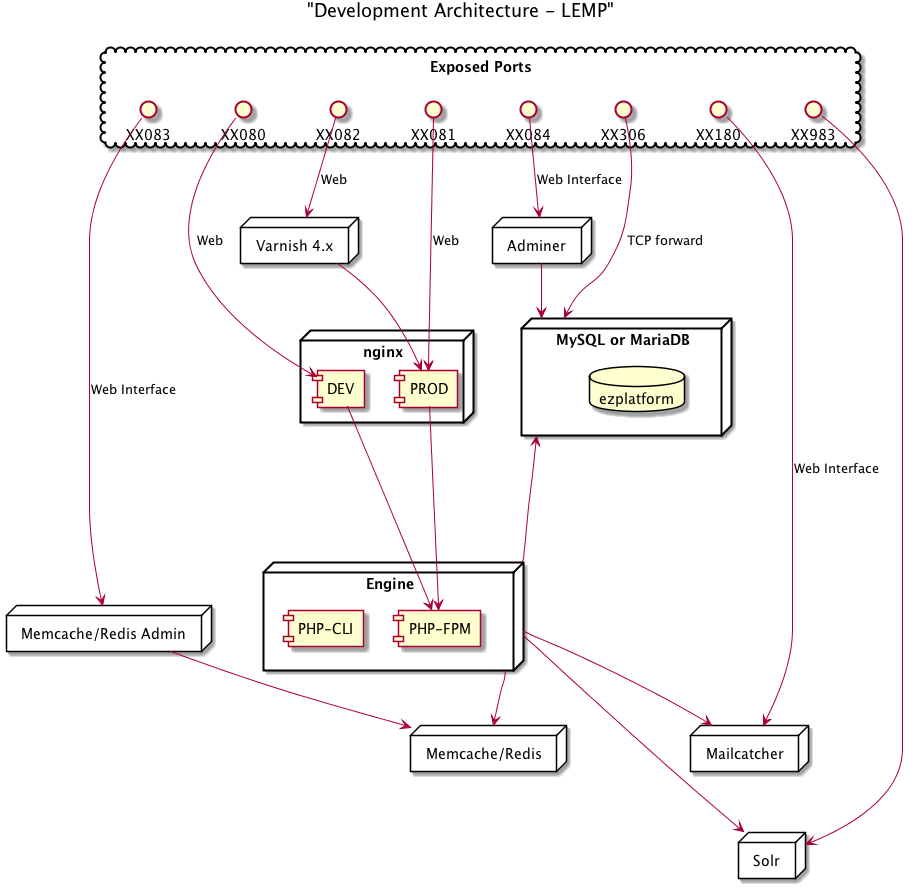
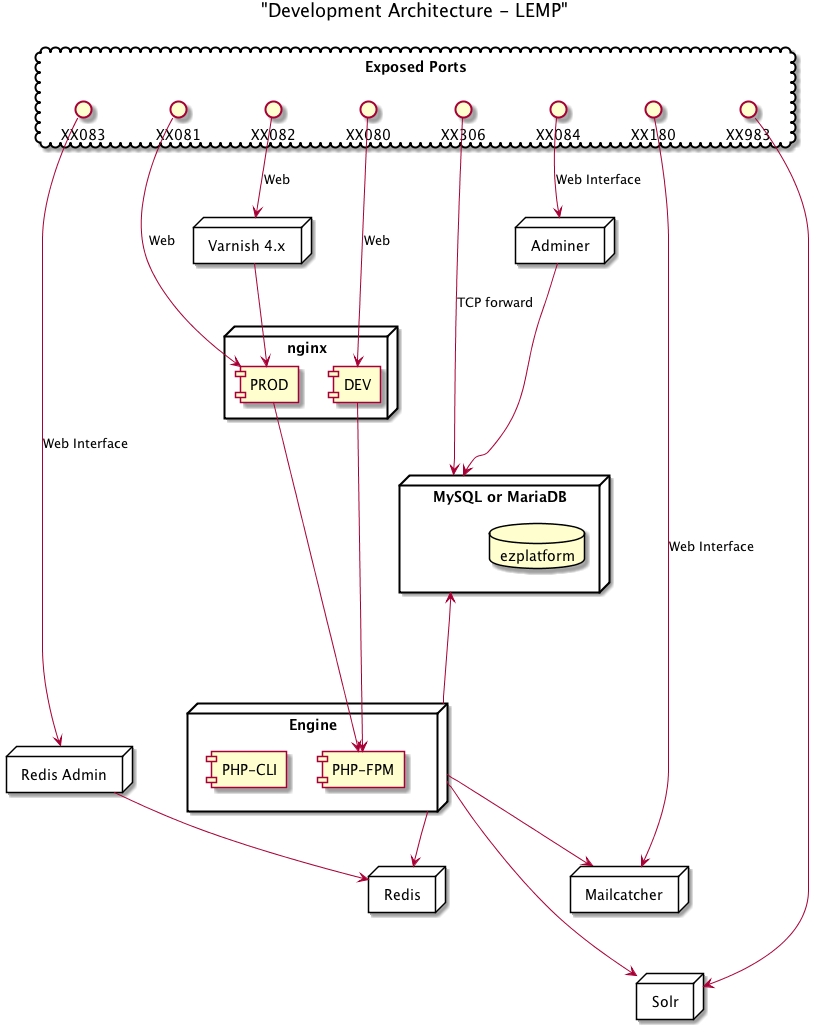
Move from Memcache to Redis and 2.x by default

diff --git a/src/Command/Platformsh/Setup.php b/src/Command/Platformsh/Setup.php
@@ -58,7 +58,7 @@ class Setup extends DockerCommand
 
         // Install Tiny help for Platformsh (will be included soon in ezplatform)
         $this->taskExecutor->runComposerCommand(
-            'require platformsh/config-reader --no-interaction --no-scripts --optimize-autoloader --no-update'
+            'require platformsh/config-reader --no-interaction --no-scripts --optimize-autoloader'
         );
         // Dump the project
         $this->taskExecutor->dumpData();
@@ -66,17 +66,11 @@ class Setup extends DockerCommand
         // put the files in places
         $fs->mirror("{$this->getPayloadDir()}/platformsh/.platform", "{$this->projectPath}/.platform");
 
-        if ($this->dockerClient->isEzPlatform2x()) {
-            $fs->copy(
-                "{$this->getPayloadDir()}/platformsh/.platform.app-2x.yaml",
-                "{$this->projectPath}/.platform.app.yaml"
-            );
-        } else {
-            $fs->copy(
-                "{$this->getPayloadDir()}/platformsh/.platform.app-1x.yaml",
-                "{$this->projectPath}/.platform.app.yaml"
-            );
-        }
+        $fs->copy(
+            "{$this->getPayloadDir()}/platformsh/.platform.app-".($this->dockerClient->isEzPlatform2x() ? '2x' : '1x').
+            '.yaml',
+            "{$this->projectPath}/.platform.app.yaml"
+        );
 
         $provisioningName   = $this->projectConfiguration->get('provisioning.folder_name');
         $provisioningFolder = "{$this->projectPath}/{$provisioningName}";
@@ -86,12 +80,13 @@ class Setup extends DockerCommand
             true
         );
         $fs->copy(
-            "{$this->getPayloadDir()}/platformsh/clearmemcache.php",
-            "{$provisioningFolder}/platformsh/clearmemcache.php",
+            "{$this->getPayloadDir()}/platformsh/clearrediscache.php",
+            "{$provisioningFolder}/platformsh/clearrediscache.php",
             true
         );
         $fs->copy(
-            "{$this->getPayloadDir()}/platformsh/platformsh.php",
+            "{$this->getPayloadDir()}/platformsh/platformsh-".($this->dockerClient->isEzPlatform2x() ? '2x' : '1x').
+            '.php',
             "{$this->projectPath}/ezplatform/app/config/env/platformsh.php",
             true
         );

diff --git a/payload/platformsh/platformsh-1x.php b/payload/platformsh/platformsh-1x.php
@@ -1,0 +1,39 @@
+<?php
+include(__DIR__."/../../../vendor/autoload.php");
+
+use Platformsh\ConfigReader\Config as PlatformshConfig;
+use Symfony\Component\Config\FileLocator;
+use Symfony\Component\DependencyInjection\Loader;
+
+$config = new PlatformshConfig();
+
+if (!isset($config->project)) {
+    return;
+}
+
+if (isset($config->relationships['database'][0])) {
+    $database = $config->relationships['database'][0];
+    $container->setParameter('database_driver', 'pdo_'.$database['scheme']);
+    $container->setParameter('database_host', $database['host']);
+    $container->setParameter('database_port', $database['port']);
+    $container->setParameter('database_name', $database['path']);
+    $container->setParameter('database_user', $database['username']);
+    $container->setParameter('database_password', $database['password']);
+    $container->setParameter('database_path', '');
+}
+
+if (isset($config->relationships['cache'][0])) {
+    $pool  = 'singleredis';
+    $cache = $config->relationships['cache'][0];
+    $container->setParameter('cache_pool', $pool);
+    $container->setParameter('cache_host', $cache['host']);
+    $container->setParameter('cache_redis_port', $cache['port']);
+    $loader = new Loader\YamlFileLoader($container, new FileLocator(__DIR__.'/../cache_pool'));
+    $loader->load($pool.'.yml');
+}
+
+// Disable PHPStormPass
+$container->setParameter('ezdesign.phpstorm.enabled', false);
+
+
+// Sessions are in redis via PHP Config

diff --git a/src/Command/Docker/Initialize.php b/src/Command/Docker/Initialize.php
@@ -58,7 +58,7 @@ class Initialize extends Command
         $this->setName('docker:initialize')->setDescription('Initialize the project and all the services.');
         $this->setAliases(['docker:init', 'initialize', 'init']);
         $this->addArgument('repository', InputArgument::OPTIONAL, 'eZ Platform Repository', 'ezsystems/ezplatform');
-        $this->addArgument('version', InputArgument::OPTIONAL, 'eZ Platform Version', '1.12.*');
+        $this->addArgument('version', InputArgument::OPTIONAL, 'eZ Platform Version', '2.*');
         $this->addArgument('initialdata', InputArgument::OPTIONAL, 'eZ Platform Initial', 'clean');
     }
 
@@ -106,14 +106,14 @@ class Initialize extends Command
         // PHP.ini ADAPTATION
         $phpINIPath = "{$provisioningFolder}/dev/engine/php.ini";
         $conf       = <<<END
-; memcache configuration in dev 
-session.save_handler = memcached
-session.save_path = "memcache:11211?persistent=1&weight=1&timeout=1&retry_interval=15"
+; redis configuration in dev 
+session.save_handler = redis
+session.save_path = "tcp://redis:6379"
 END;
         $iniContent = file_get_contents($phpINIPath);
         $iniContent = str_replace(
-            '##MEMCACHE_CONFIG##',
-            $compose->hasService('memcache') ? $conf : '',
+            '##REDIS_CONFIG##',
+            $compose->hasService('redis') ? $conf : '',
             $iniContent
         );
 

diff --git a/src/Core/DockerCompose.php b/src/Core/DockerCompose.php
@@ -115,12 +115,13 @@ class DockerCompose
                         $vars = [
                             'CUSTOM_CACHE_POOL',
                             'CACHE_HOST',
-                            'CACHE_MEMCACHED_PORT',
+                            'CACHE_REDIS_PORT',
                             'CACHE_POOL',
                             'CACHE_DSN',
                             'SEARCH_ENGINE',
                             'SOLR_DSN',
                             'HTTPCACHE_PURGE_SERVER',
+                            'SYMFONY_TMP_DIR',
                         ];
 
                         return !preg_match(
@@ -151,9 +152,9 @@ class DockerCompose
                                 return false;
                             }
                         }
-                        if (!$this->hasService('memcache')) {
+                        if (!$this->hasService('redis')) {
                             if (preg_match(
-                                '/(CUSTOM_CACHE_POOL|CACHE_HOST|CACHE_POOL|CACHE_DSN|CACHE_MEMCACHED_PORT)/',
+                                '/(CUSTOM_CACHE_POOL|CACHE_HOST|CACHE_POOL|CACHE_DSN|CACHE_REDIS_PORT)/',
                                 $value
                             )) {
                                 return false;

diff --git a/tests/Tests/Unit/DockerComposeTest.php b/tests/Tests/Unit/DockerComposeTest.php
@@ -57,7 +57,7 @@ class DockerComposeTest extends TestCase
             }
             foreach ($service['environment'] as $env) {
                 $this->assertNotRegExp(
-                    "/(CUSTOM_CACHE_POOL|CACHE_HOST|CACHE_MEMCACHED_PORT|SEARCH_ENGINE|SOLR_DSN)/",
+                    "/(CUSTOM_CACHE_POOL|CACHE_HOST|CACHE_REDIS_PORT|SEARCH_ENGINE|SOLR_DSN)/",
                     $env
                 );
             }
@@ -68,16 +68,16 @@ class DockerComposeTest extends TestCase
     {
         return [
             [
-                ['engine', 'memcache'],
+                ['engine', 'redis'],
                 ['SEARCH_ENGINE', 'SOLR_DSN']
             ],
             [
                 ['engine', 'solr'],
-                ['CACHE_HOST', 'CACHE_MEMCACHED_PORT', 'CACHE_MEMCACHED_PORT']
+                ['CACHE_HOST', 'CACHE_REDIS_PORT', 'CACHE_REDIS_PORT']
             ],
             [
                 ['engine'],
-                ['CACHE_HOST', 'CACHE_MEMCACHED_PORT', 'CACHE_MEMCACHED_PORT', 'SEARCH_ENGINE', 'SOLR_DSN']
+                ['CACHE_HOST', 'CACHE_REDIS_PORT', 'CACHE_REDIS_PORT', 'SEARCH_ENGINE', 'SOLR_DSN']
             ]
         ];
     }

diff --git a/src/Core/ProjectStatusDumper.php b/src/Core/ProjectStatusDumper.php
@@ -145,7 +145,7 @@ class ProjectStatusDumper
             $dump('Solr', '983');
         }
 
-        if (isset($services['mailcatcher']) || isset($services['adminer']) || isset($services['memcachedadmin'])) {
+        if (isset($services['mailcatcher']) || isset($services['adminer']) || isset($services['redisadmin'])) {
             $this->io->section('Tools');
             if (isset($services['mailcatcher'])) {
                 $dump('Mailcatcher', '180');
@@ -153,8 +153,8 @@ class ProjectStatusDumper
             if (isset($services['adminer'])) {
                 $dump('Adminer', '084');
             }
-            if (isset($services['memcachedadmin'])) {
-                $dump('Memcache Admin', '083');
+            if (isset($services['redisadmin'])) {
+                $dump('Redis Admin', '083');
             }
         }
     }

diff --git a/payload/platformsh/clearrediscache.php b/payload/platformsh/clearrediscache.php
@@ -2,15 +2,17 @@
 include(__DIR__."/../../ezplatform/vendor/autoload.php");
 
 use Platformsh\ConfigReader\Config as PlatformshConfig;
+use Symfony\Component\Cache\Simple\RedisCache;
 
 $config = new PlatformshConfig();
 
 if (isset($config->relationships['cache'][0])) {
-    $m     = new Memcached();
     $cache = $config->relationships['cache'][0];
-    $m->addServer($cache['host'], $cache['port']);
-    if ($m->flush()) {
-        echo "Memcache Cleared.\n";
+
+    $conn = RedisCache::createConnection("redis://{$cache['host']}:{$cache['port']}");
+    $client = new RedisCache($conn);
+    if ($client->clear()) {
+        echo "Redis Cleared.\n";
     }
 }
 

diff --git a/payload/platformsh/platformsh-2x.php b/payload/platformsh/platformsh-2x.php
@@ -23,11 +23,11 @@ if (isset($config->relationships['database'][0])) {
 }
 
 if (isset($config->relationships['cache'][0])) {
-    $pool  = 'singlememcached';
+    $pool  = 'cache.redis';
     $cache = $config->relationships['cache'][0];
     $container->setParameter('cache_pool', $pool);
     $container->setParameter('cache_host', $cache['host']);
-    $container->setParameter('cache_memcached_port', $cache['port']);
+    $container->setParameter('cache_redis_port', $cache['port']);
     $loader = new Loader\YamlFileLoader($container, new FileLocator(__DIR__.'/../cache_pool'));
     $loader->load($pool.'.yml');
 }

diff --git a/src/Core/ProjectWizard.php b/src/Core/ProjectWizard.php
@@ -67,7 +67,7 @@ class ProjectWizard
             $this->getComposerHttpBasicCredentials(),
             $this->getSelectedServices(
                 $compose->getServices(),
-                ['varnish', 'solr', 'mailcatcher', 'adminer', 'memcache', 'memcachedadmin']
+                ['varnish', 'solr', 'mailcatcher', 'adminer', 'redis', 'redisadmin']
             ),
             $this->getProvisioningFolderName(),
             $this->getComposeFileName(),
